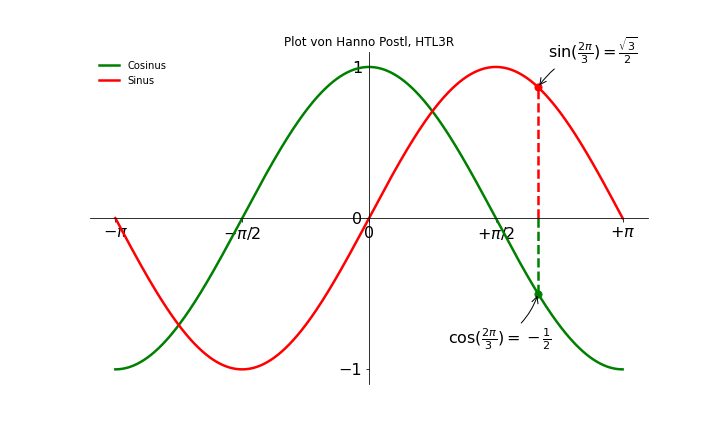
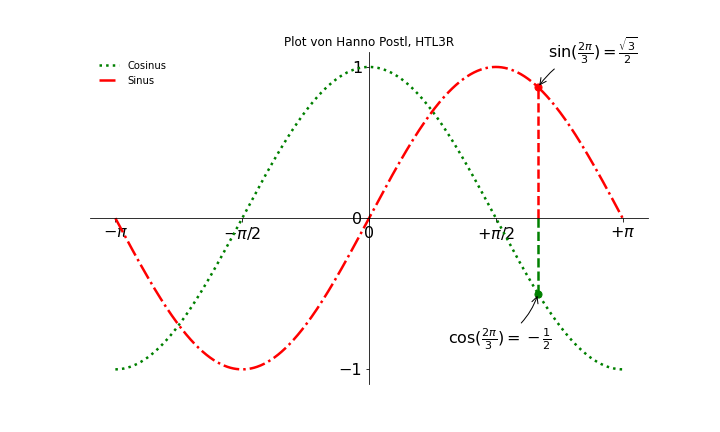
UE02: Argparse erstellen

diff --git a/UE02/statistik.py b/UE02/statistik.py
@@ -1,0 +1,66 @@
+__author__ = "Hanno Postl"
+__version__ = "1.0"
+__status__ = "finished"
+
+import argparse
+from dateutil import parser
+import subprocess
+import sys
+from collections import defaultdict
+from matplotlib import pyplot as plt
+
+
+def main():
+    parser = argparse.ArgumentParser(
+        description="statistik.py by Hanno Postl 5CN -- draws a plot with git log data"
+    )
+    parser.add_argument('-a', '--author',
+        type=str,
+        default="",
+        help='The author to filter the commits, default=""'
+    )
+    parser.add_argument(
+        '-d', '--directory',
+        type=str,
+        default=".",
+        help='The directory of the git repository, default="."'
+    )
+    parser.add_argument(
+        '-f', '--filename',
+        type=str,
+        help='The filename of the plot. Don’t save picture if parameter is missing'
+    )
+    parser.add_argument(
+        '-v', '--verbose',
+        action='store_true',
+        help='increase verbosity'
+    )
+    parser.add_argument(
+        '-q', '--quiet',
+        action='store_true',
+        help='decrease verbosity'
+    )
+
+    args = parser.parse_args()
+
+    # Git log Daten abrufen
+    output = getGitLog(args.author, args.directory, args.verbose)
+
+    if not output:
+        print("Keine Commits gefunden.", file=sys.stderr)
+        sys.exit(1)
+
+    # Daten parsen
+    parsed_commits = parseGitLog(output)
+
+    # Ergebnisse ausgeben
+    for commit in parsed_commits:
+        print(f"{commit['author']}; {commit['date']}")
+
+    print(f"Anzahl der Commits: {len(parsed_commits)}")
+
+    makePlot(countCommits(parsed_commits), args.author, args.filename)
+
+
+if __name__ == "__main__":
+    main()

diff --git a/UE02/plot1.py b/UE02/plot1.py
@@ -1,6 +1,6 @@
 __author__ = "Hanno Postl"
-__version__ = "1.0"
-__status__ = "work in progress"
+__version__ = "1.1"
+__status__ = "finished"
 
 
 import matplotlib.pyplot as plt
@@ -29,8 +29,8 @@ if __name__ == "__main__":
     plt.xticks([-PI, -PI / 2, 0, PI / 2, PI],
                [r'$-\pi$', r'$-\pi/2$', r'$0$', r'$+\pi/2$', r'$+\pi$'])
 
-    plt.plot(X, C, color="green", linewidth=2.5, linestyle="-", label="Cosinus")
-    plt.plot(X, S, color="red", linewidth=2.5, linestyle="-", label="Sinus")
+    plt.plot(X, C, color="green", linewidth=2.5, linestyle=":", label="Cosinus")
+    plt.plot(X, S, color="red", linewidth=2.5, linestyle="-.", label="Sinus")
     plt.legend(loc='upper left', frameon=False)
 
     ax = plt.gca()

diff --git a/UE11/rsa.py b/UE11/rsa.py
@@ -186,5 +186,5 @@ def main():
         logging.info(f"File decrypted to: {output_file}")
 
 
-#if __name__ == "__main__":
-    #main()
+if __name__ == "__main__":
+    main()
